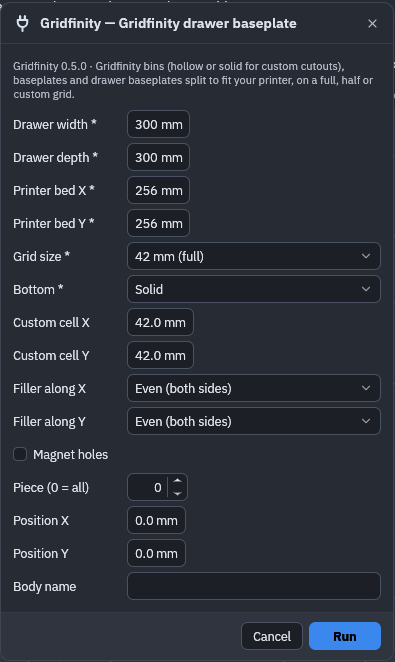
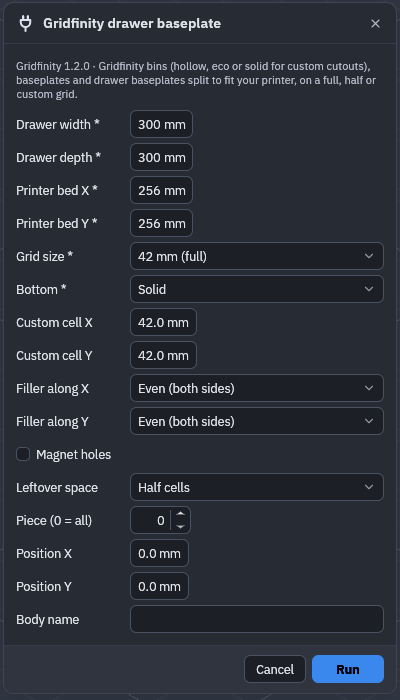
README: new screenshots of the Plugins menu and the bin and drawer forms (1.2.0)

diff --git a/README.md b/README.md
@@ -157,11 +157,11 @@ folder named like the body (open the folder to edit a single step).
 
 ![The bin's folder in the History bar](docs/images/timeline-folder.png)
 
-| Plugins menu | The bin form (here a custom 40 × 25 mm grid) |
+| Plugins menu | The bin form |
 |---|---|
-| ![Plugins menu](docs/images/plugins-menu.png) | ![Bin dialog](docs/images/dialog-custom.png) |
+| ![Plugins menu](docs/images/plugins-menu.png) | ![Bin dialog](docs/images/dialog-bin.png) |
 
-![The bin in SolidCraft after Run](docs/images/gui-custom-bin.png)
+![A bin on a custom 40 × 25 mm grid in SolidCraft after Run](docs/images/gui-custom-bin.png)
 
 | The drawer baseplate form | Its four pieces in SolidCraft |
 |---|---|
